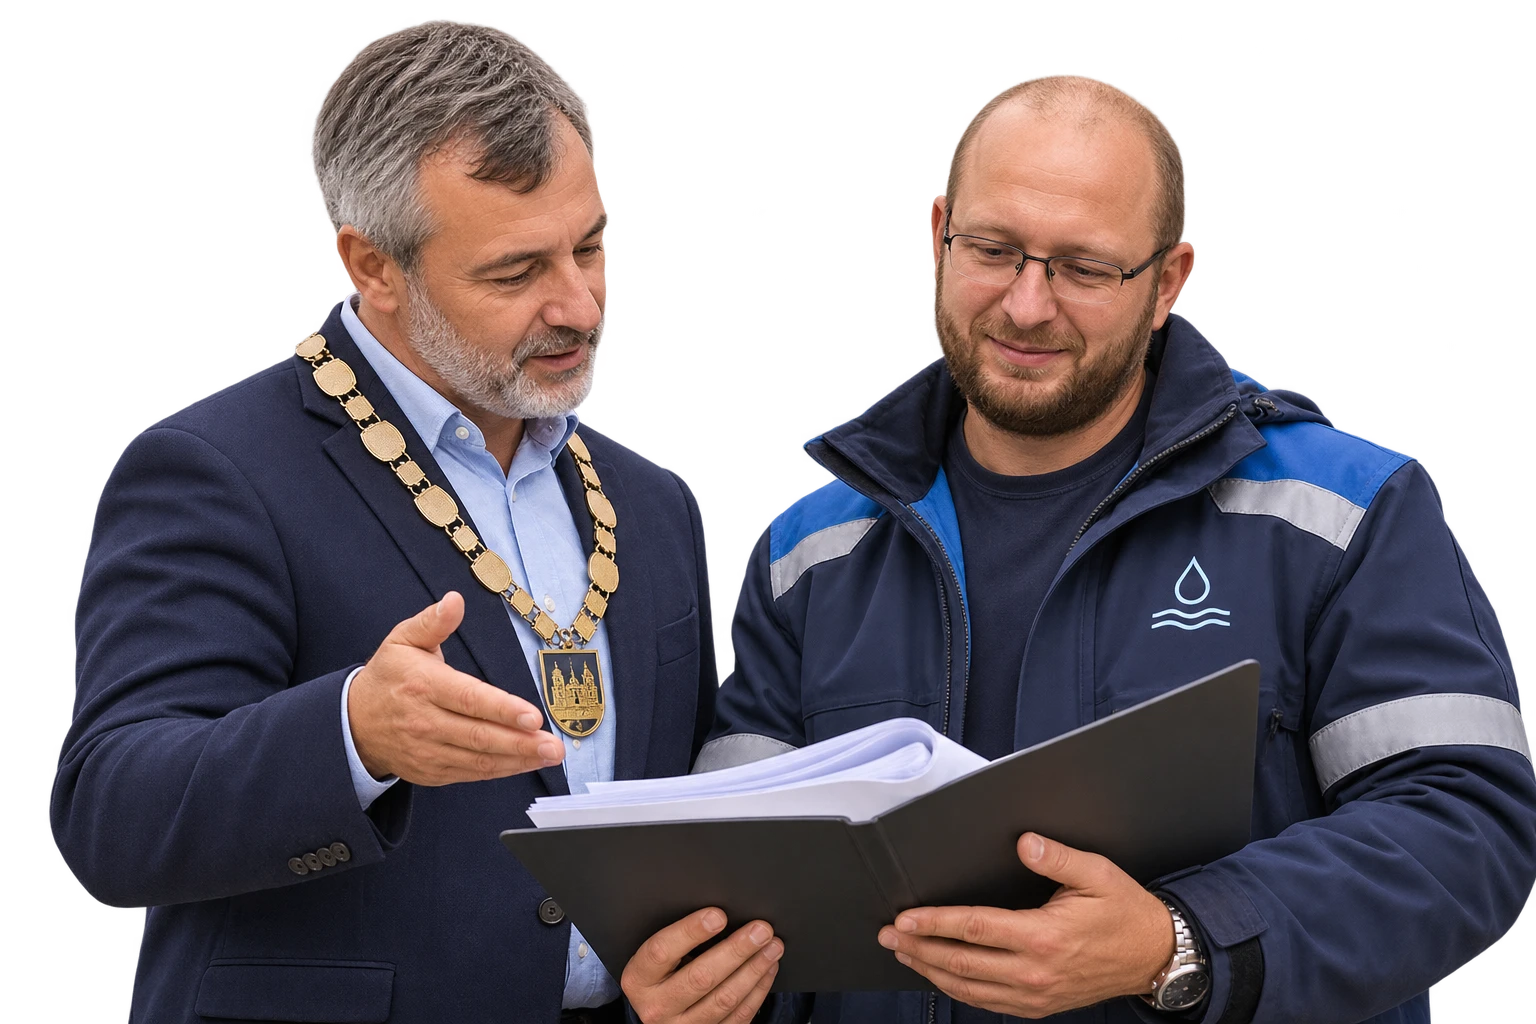
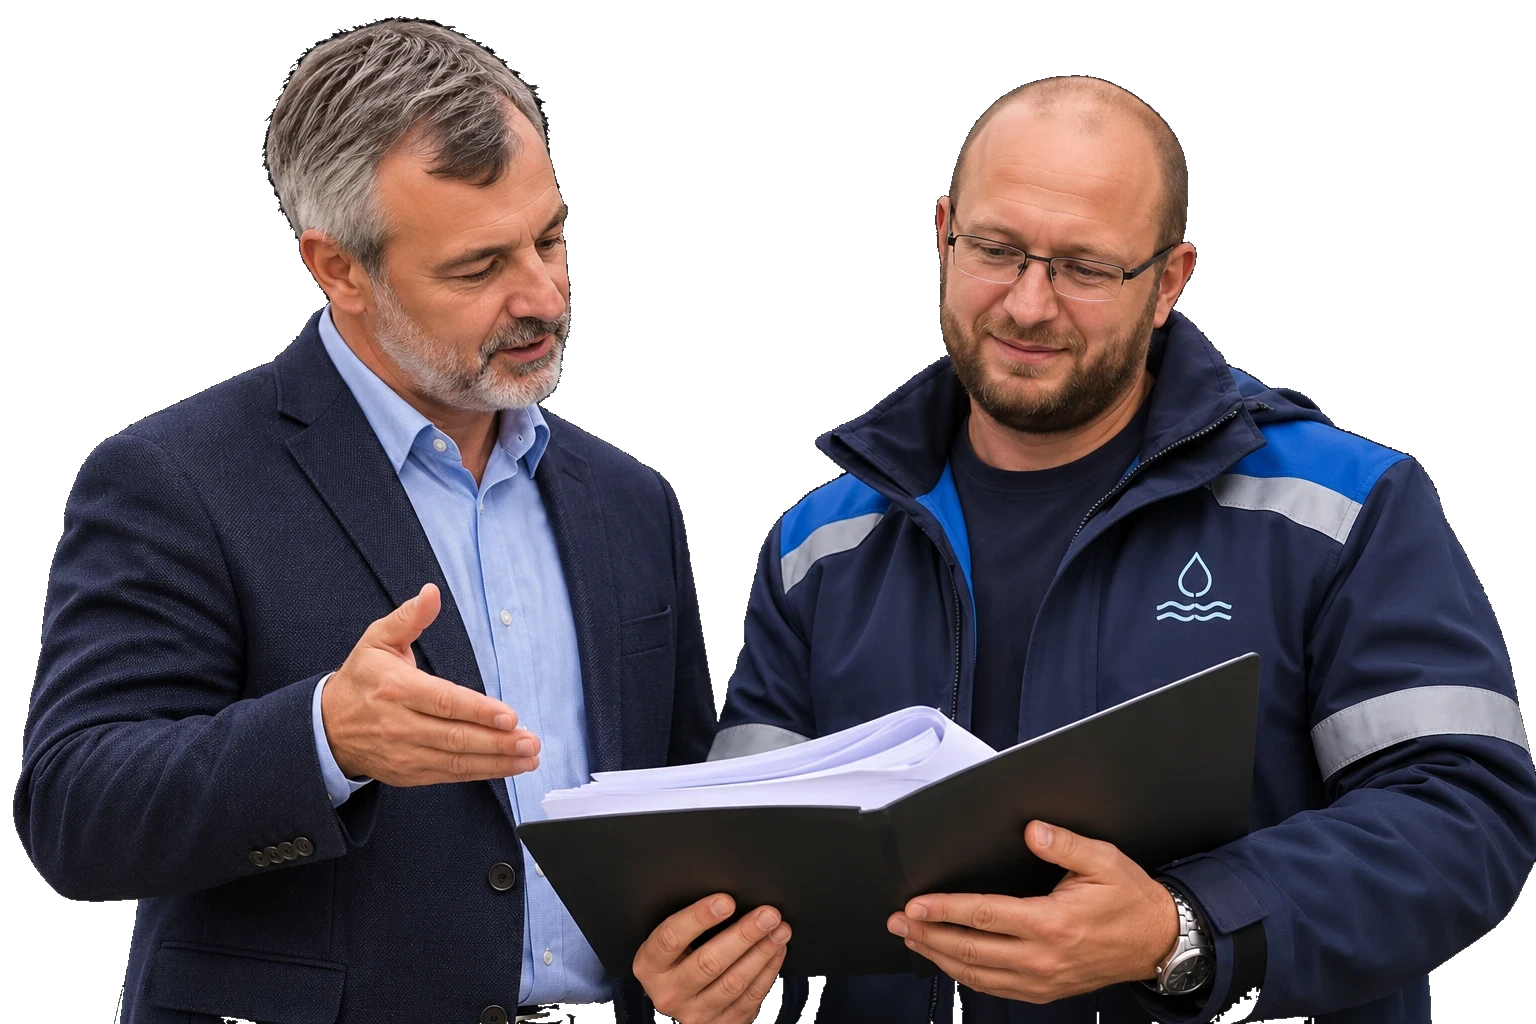
Replace hero photo, make About highlight cover full text height

diff --git a/src/styles/global.css b/src/styles/global.css
@@ -285,7 +285,7 @@ p{margin:0}
 .omne__text p:first-of-type{font-size:clamp(19px,1.6vw,22px);line-height:1.55;color:var(--h-navy);font-weight:500}
 .omne__text p+p{margin-top:18px}
 /* zvýrazňovač: limetkový pruh ve spodní části řádku */
-.omne mark{color:inherit;background:linear-gradient(transparent 52%,var(--lime) 52%,var(--lime) 92%,transparent 92%);padding:0 2px;margin:0 -2px;-webkit-box-decoration-break:clone;box-decoration-break:clone}
+.omne mark{color:inherit;background:var(--lime);padding:0 3px;margin:0 -3px;border-radius:2px;-webkit-box-decoration-break:clone;box-decoration-break:clone}
 
 /* Dotazy */
 /* Časté dotazy – vlevo nadpis a kontakt (přichycené), vpravo otázky jako karty s rychlou odpovědí */
